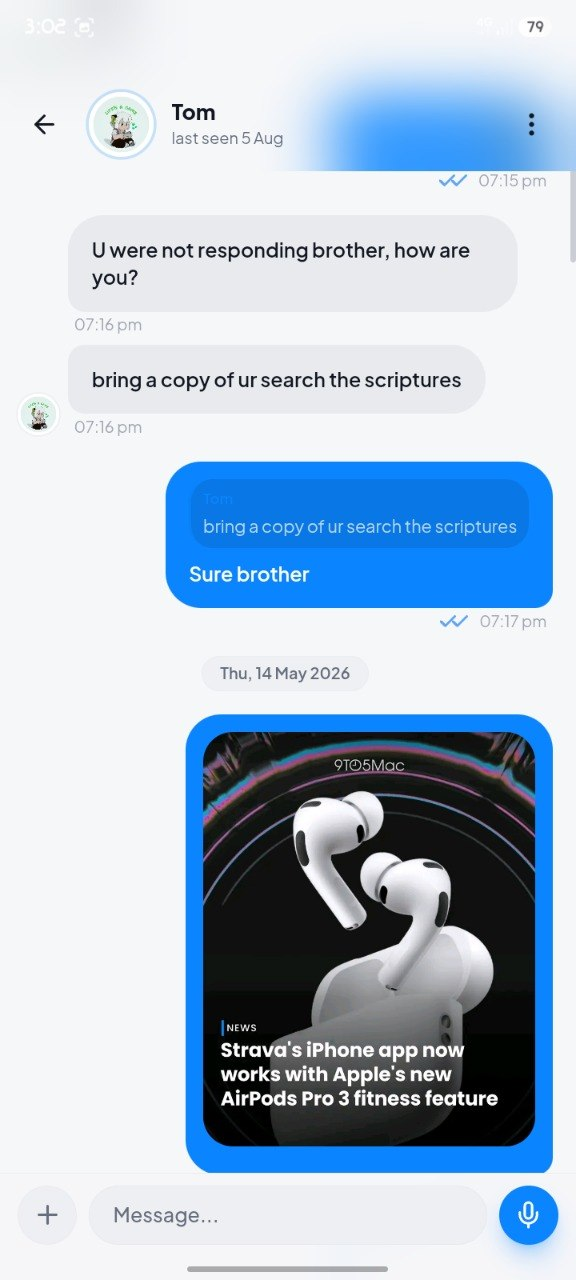
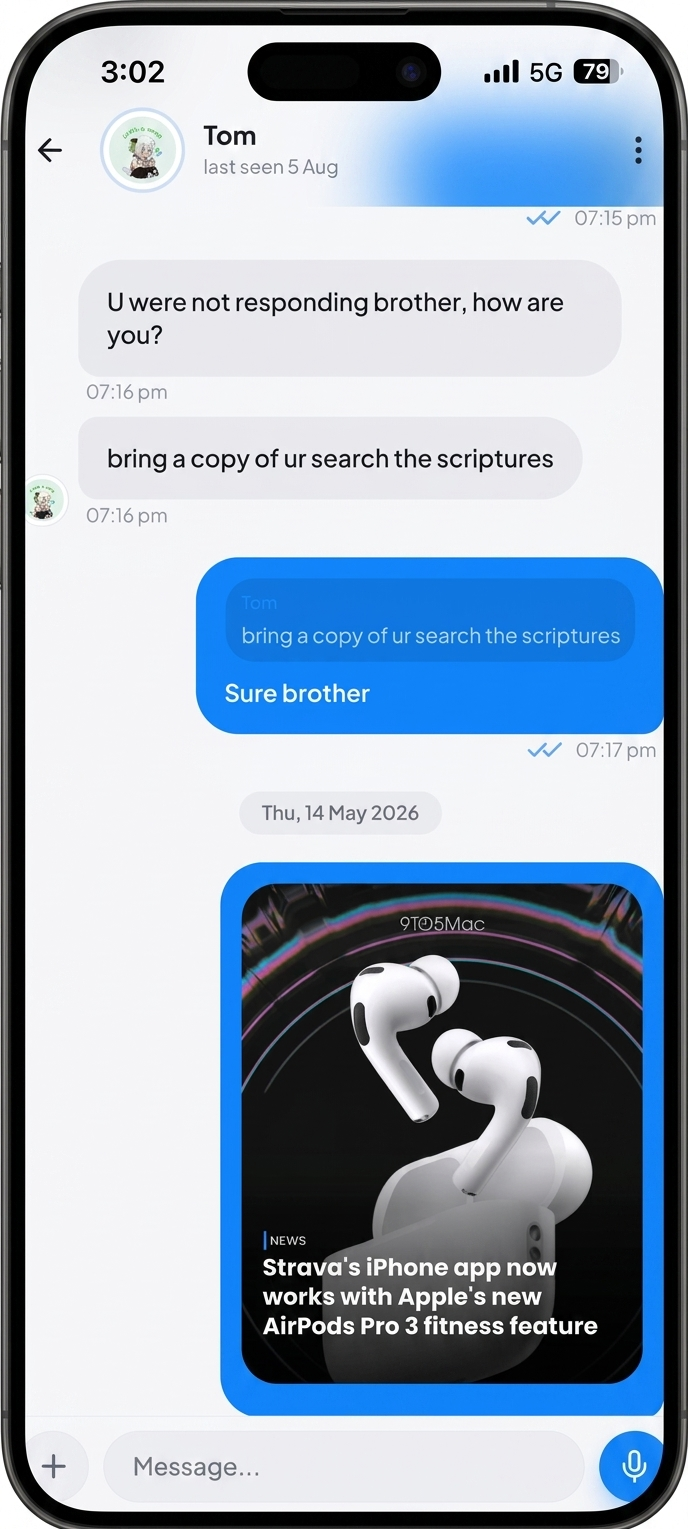
Replace mobile carousel images, drop device-frame double-wrap, shrink 30%

Changed region(s): [[0.0, 0.0, 1.0, 1.0], [0.125, 0.1875, 0.8125, 0.3438]]

diff --git a/src/components/site/MobileCarousel.tsx b/src/components/site/MobileCarousel.tsx
@@ -1,44 +1,33 @@
 import { useState } from "react";
 import { ChevronRight } from "lucide-react";
 import { cn } from "@/lib/utils";
-import { DeviceFrame } from "./DeviceFrame";
 
 type Slide = { src: string; label: string };
 
 /**
- * Phone-framed carousel used in the "Mobile apps" service block.
- * Shows the active screen large, with a sliver of the next screen peeking
- * out from behind a white fade, plus a button to advance manually.
+ * Carousel used in the "Mobile apps" service block. The source photos
+ * already have a real phone frame baked in (not a CSS mockup), so they're
+ * rendered as-is here, uncropped, with no extra device frame on top.
  */
 export function MobileCarousel({ slides }: { slides: Slide[] }) {
   const [index, setIndex] = useState(0);
   const current = slides[index]!;
-  const next = slides[(index + 1) % slides.length]!;
 
   const advance = () => setIndex((i) => (i + 1) % slides.length);
 
   return (
-    <div className="relative mx-auto w-full max-w-[225px]">
-      <div className="relative">
-        {/* peeking next screen */}
-        <div className="pointer-events-none absolute inset-y-6 -right-7 z-0 w-16 overflow-hidden rounded-[1.4rem]">
-          <img
-            src={next.src}
-            alt=""
-            className="h-full w-[225px] max-w-none object-cover object-top"
-          />
-          <div className="absolute inset-0 bg-gradient-to-r from-card/5 via-card/60 to-card" />
-        </div>
-
-        {/* active screen */}
-        <button
-          onClick={advance}
-          aria-label={`Currently showing ${current.label}. Tap for next screen.`}
-          className="bouncy relative z-10 block w-full cursor-pointer hover:-translate-y-1"
-        >
-          <DeviceFrame type="phone" image={current.src} alt={current.label} />
-        </button>
-      </div>
+    <div className="relative mx-auto w-full max-w-[158px]">
+      <button
+        onClick={advance}
+        aria-label={`Currently showing ${current.label}. Tap for next screen.`}
+        className="bouncy block w-full cursor-pointer hover:-translate-y-1"
+      >
+        <img
+          src={current.src}
+          alt={current.label}
+          className="w-full object-contain drop-shadow-[0_25px_50px_rgba(11,18,32,0.35)]"
+        />
+      </button>
 
       <div className="mt-5 flex items-center justify-between">
         <p className="text-sm font-semibold ink">{current.label}</p>
